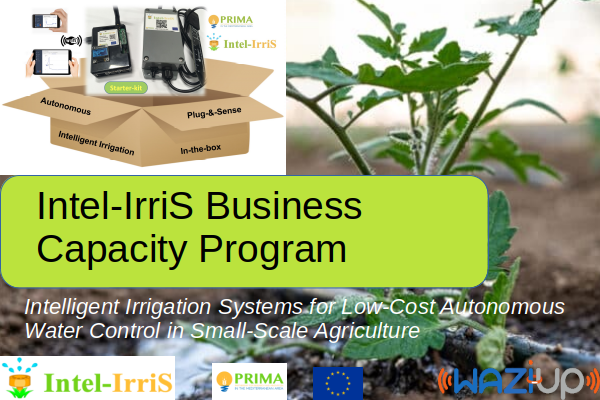
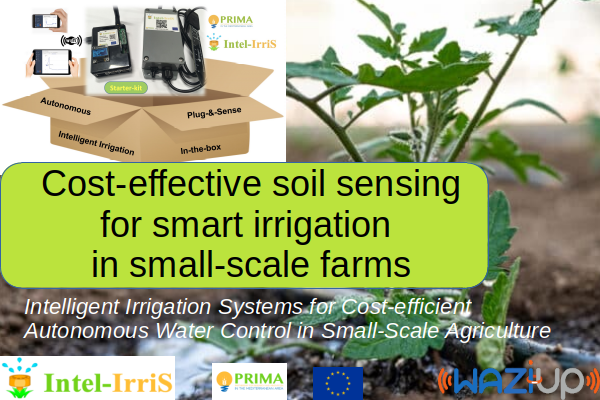
Change Intel-IrriS program name and cover

diff --git a/content/en/programs/intel-irris-capacity-program/index.md b/content/en/programs/intel-irris-capacity-program/index.md
@@ -1,14 +1,14 @@
 ---
 id: intel_irris_program
-name: Intel-IrriS Entrepreneurship Business Capacity Program
+name: Cost-effective soil sensing for smart irrigation in small-scale farms
 desc: Learn how to take benefit of the PRIMA Intel-IrriS resource and experience in your smart irrigation solution!
 from: 2023-12-01
 to: 2024-02-28
 ---
 
-# Intel-IrriS Capacity Program
+# Intel-IrriS Capacity Program: Cost-effective soil sensing for smart irrigation in small-scale farms
 
-The Intel-IrriS Business Capacity Program gathers everything you need to know about the [PRIMA Intel-IrriS project](https://intel-irris.eu/).
+The Intel-IrriS Business Capacity Program (Cost-effective soil sensing for smart irrigation in small-scale farms) gathers everything you need to know about the [PRIMA Intel-IrriS project](https://intel-irris.eu/).
 The program is designed to empower local actors into being able to provide hardware, maintenance, and support to small-holders willing to monitor the water resource on their culture fields.  
 The program duration is about three weeks, and is articulated in various modules covering the assembly of all the Intel-IrriS devices, gateways, their installation guidelines and usage, the collection of data and its analysis, and links to how to order devices and ask for support.
 
